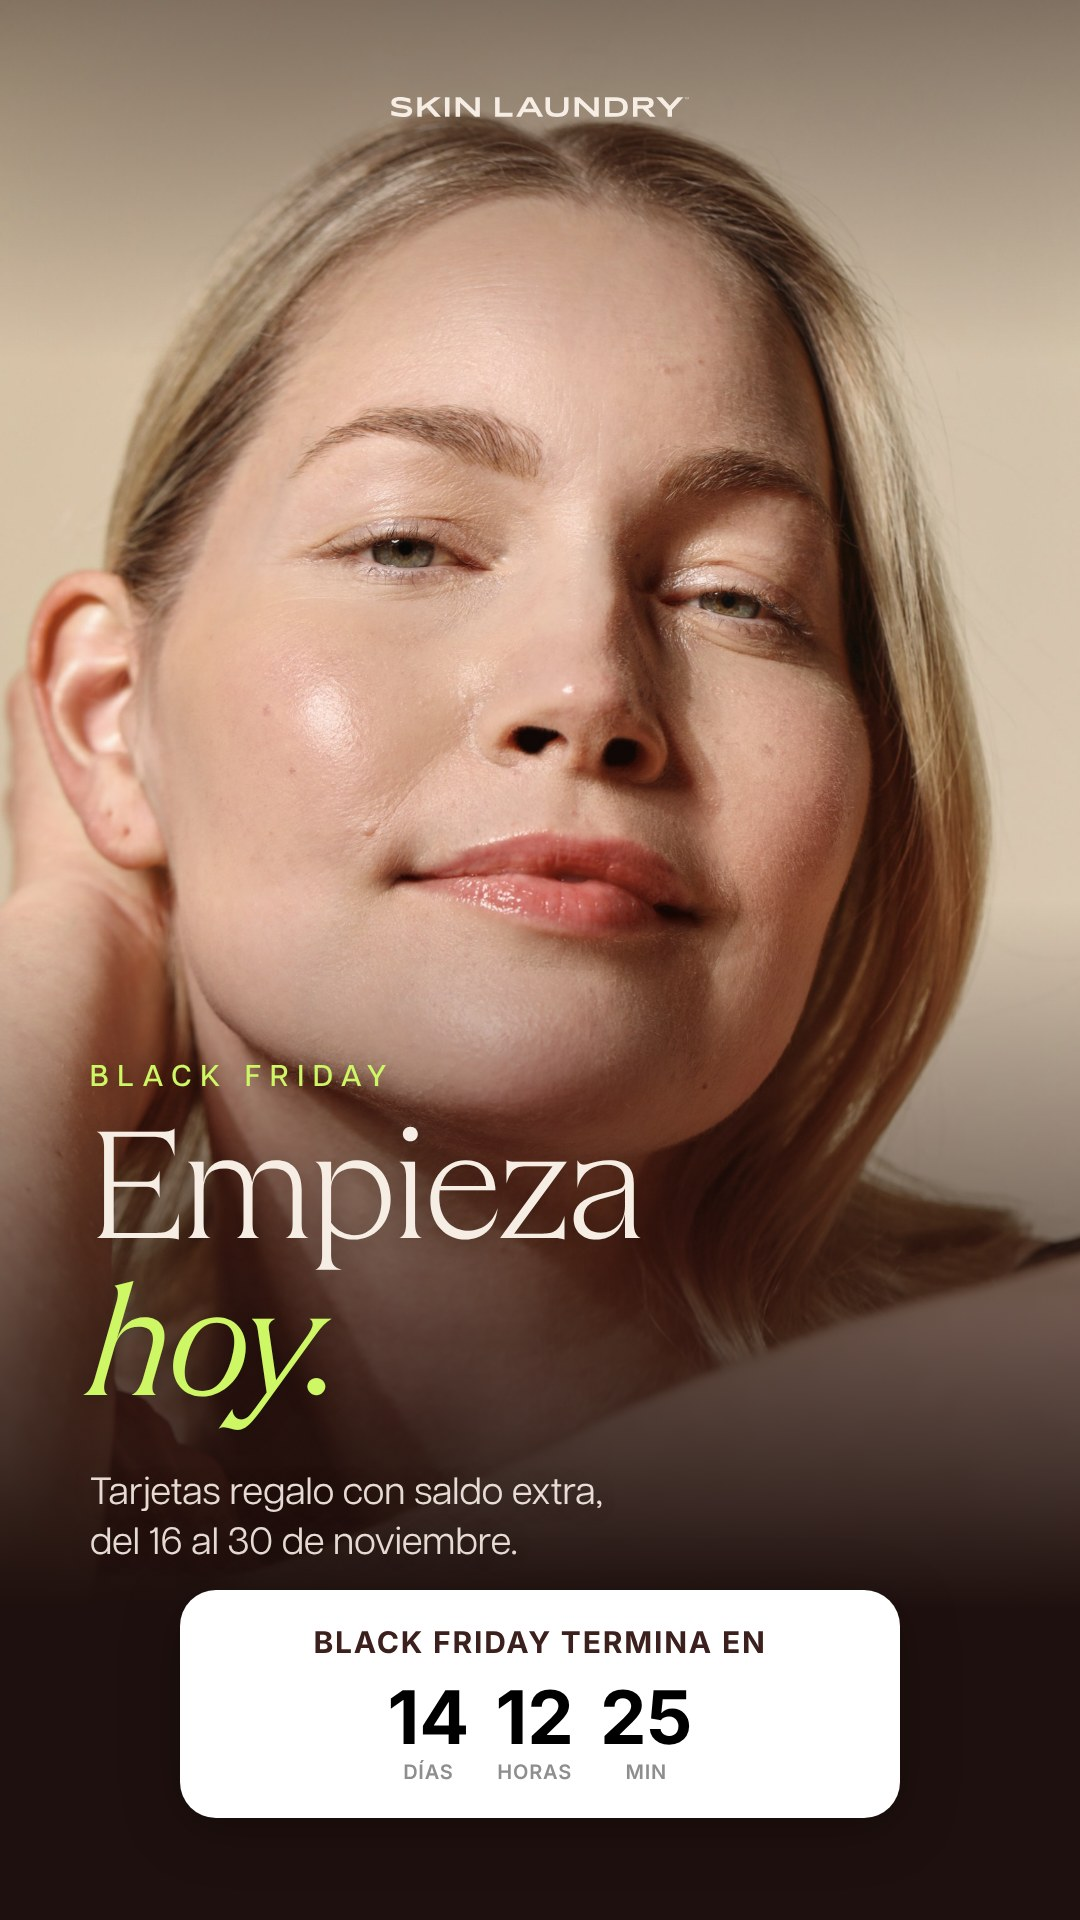
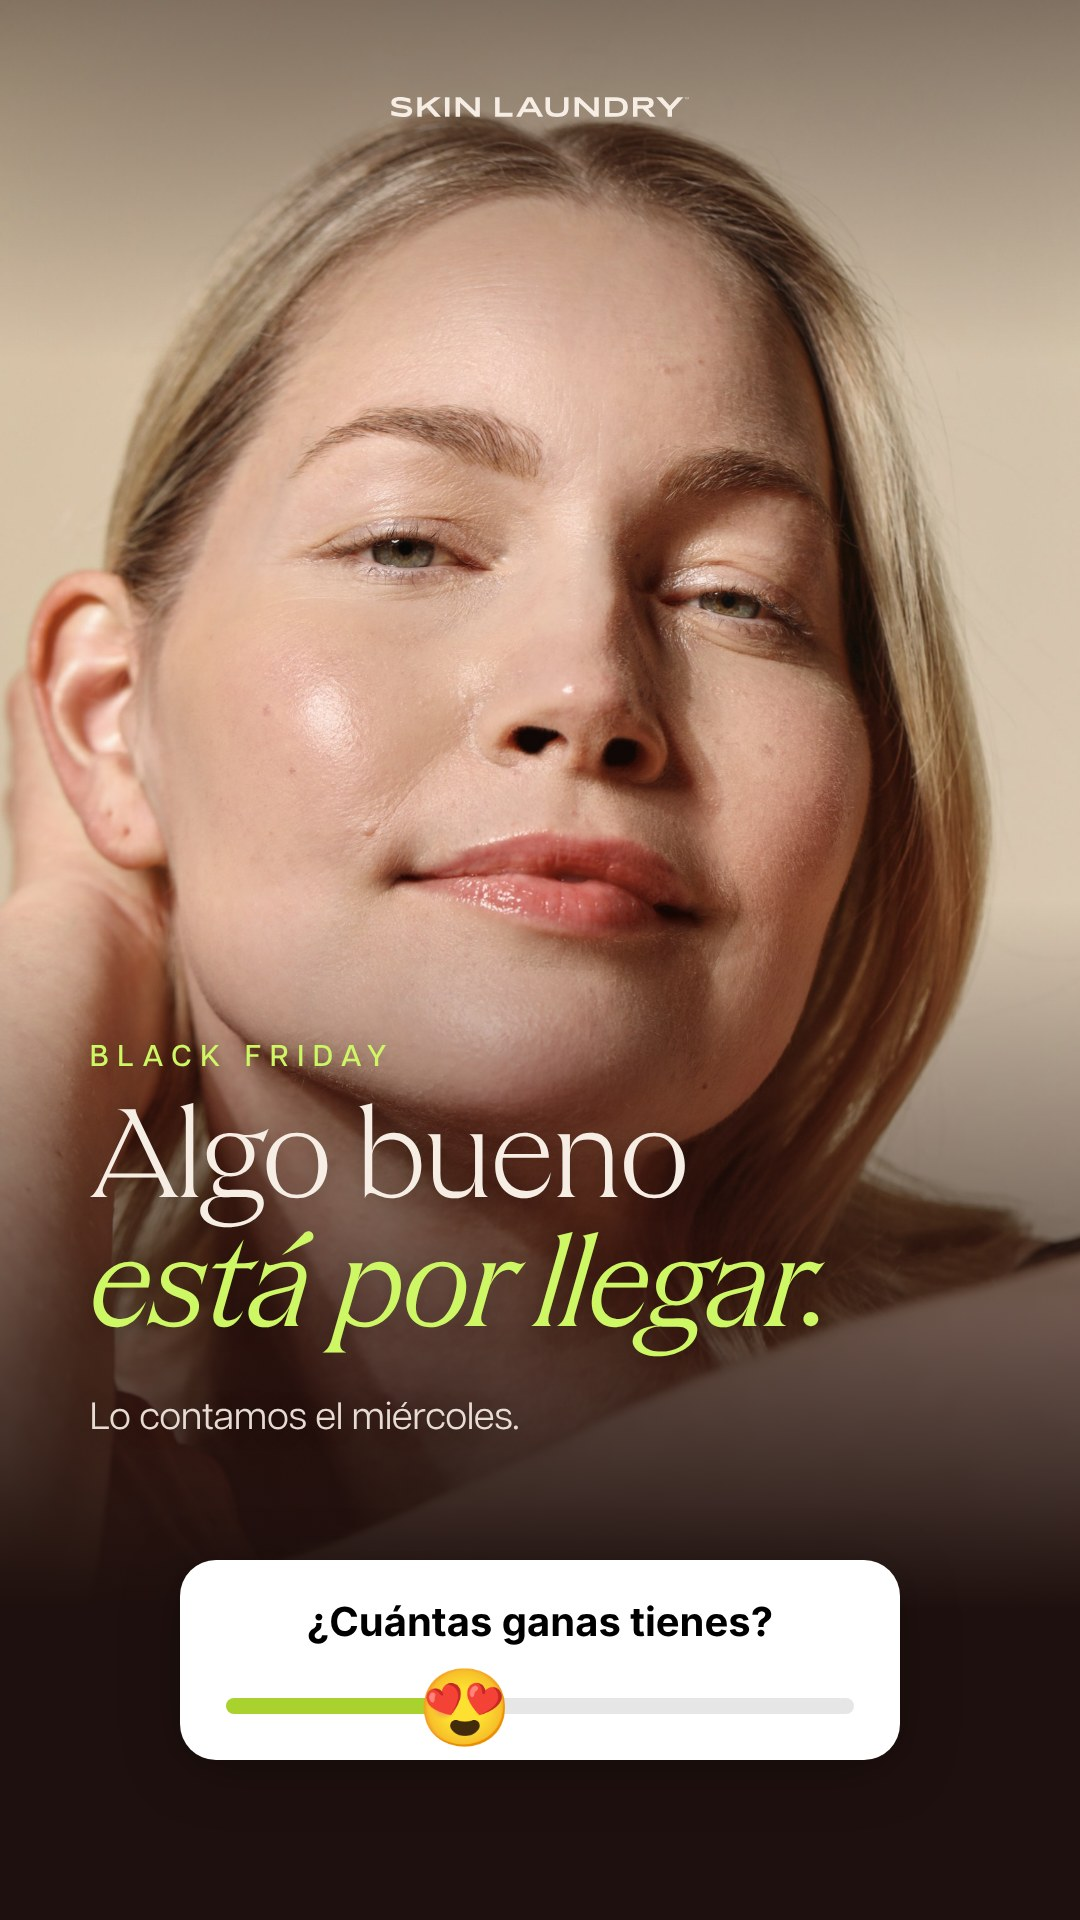
Lunes 16: stories teaser de Black Friday con cuenta atrás, sin enseñar la oferta
Claude-Session: https://claude.ai/code/session_01JZ4qrB4vBJCM1LriYw1bZU

Changed region(s): [[0.0611, 0.5312, 0.8556, 0.9688], [0.4889, 0.75, 0.55, 0.7812]]

diff --git a/public/pitch/skin-laundry-calendario/noviembre/index.html b/public/pitch/skin-laundry-calendario/noviembre/index.html
@@ -884,10 +884,10 @@ const DRIVE = {
 /* Stories ocultas por ahora: cambiar a true para volver a mostrarlas */
 const MOSTRAR_STORIES = false;
 const STORIES = {
-  /* Pedidas por el cliente el mismo día: hype del arranque del Black Friday */
-  16: { titulo:"Stories Black Friday", hora:"Hoy", estado:"listo",
-        imgs:["/pitch/skin-laundry-calendario/noviembre/img/s16_1.jpg?v=11161205","/pitch/skin-laundry-calendario/noviembre/img/s16_2.jpg?v=11161205","/pitch/skin-laundry-calendario/noviembre/img/s16_3.jpg?v=11161205","/pitch/skin-laundry-calendario/noviembre/img/s16_4.jpg?v=11161205"],
-        items:["Empieza hoy · sticker de cuenta atrás: «Black Friday termina en» (30/11, 23:59)","Pagas menos, tienes más: 300 → 400 €, 500 → 650 €, 750 → 1.000 €, 1.000 → 1.500 €","Encuesta: la tarjeta, ¿para quién? Para mí / Para regalar","Solo hasta el 30 de noviembre · sticker de enlace: Reserva antes de que acabe"] },
+  /* Pedidas por el cliente el mismo día: teaser del Black Friday (sin enseñar la oferta, que se desvela el 18) */
+  16: { titulo:"Teaser Black Friday", hora:"Hoy", estado:"listo",
+        imgs:["/pitch/skin-laundry-calendario/noviembre/img/s16_1.jpg?v=11161215","/pitch/skin-laundry-calendario/noviembre/img/s16_2.jpg?v=11161215","/pitch/skin-laundry-calendario/noviembre/img/s16_3.jpg?v=11161215"],
+        items:["Algo bueno está por llegar · lo contamos el miércoles · deslizador de emoji: ¿cuántas ganas tienes? 😍","Una pista: va de regalar, y de regalarte · encuesta: ¿qué crees que es? Algo para mí / El regalo perfecto","Cuenta atrás · sticker de cuenta atrás hasta el miércoles 18 a las 19:30 (sale el post) · activa el recordatorio"] },
   /* Pack que iba a salir el miércoles 11 y no se publicó: pasa al viernes 13 */
   13: { titulo:"Pack de stories", hora:"12:00h", estado:"listo",
         imgs:["/pitch/skin-laundry-calendario/noviembre/img/s13_1.jpg?v=11120220","/pitch/skin-laundry-calendario/noviembre/img/s13_2.jpg?v=11120220","/pitch/skin-laundry-calendario/noviembre/img/s13_3.jpg?v=11121312"],
